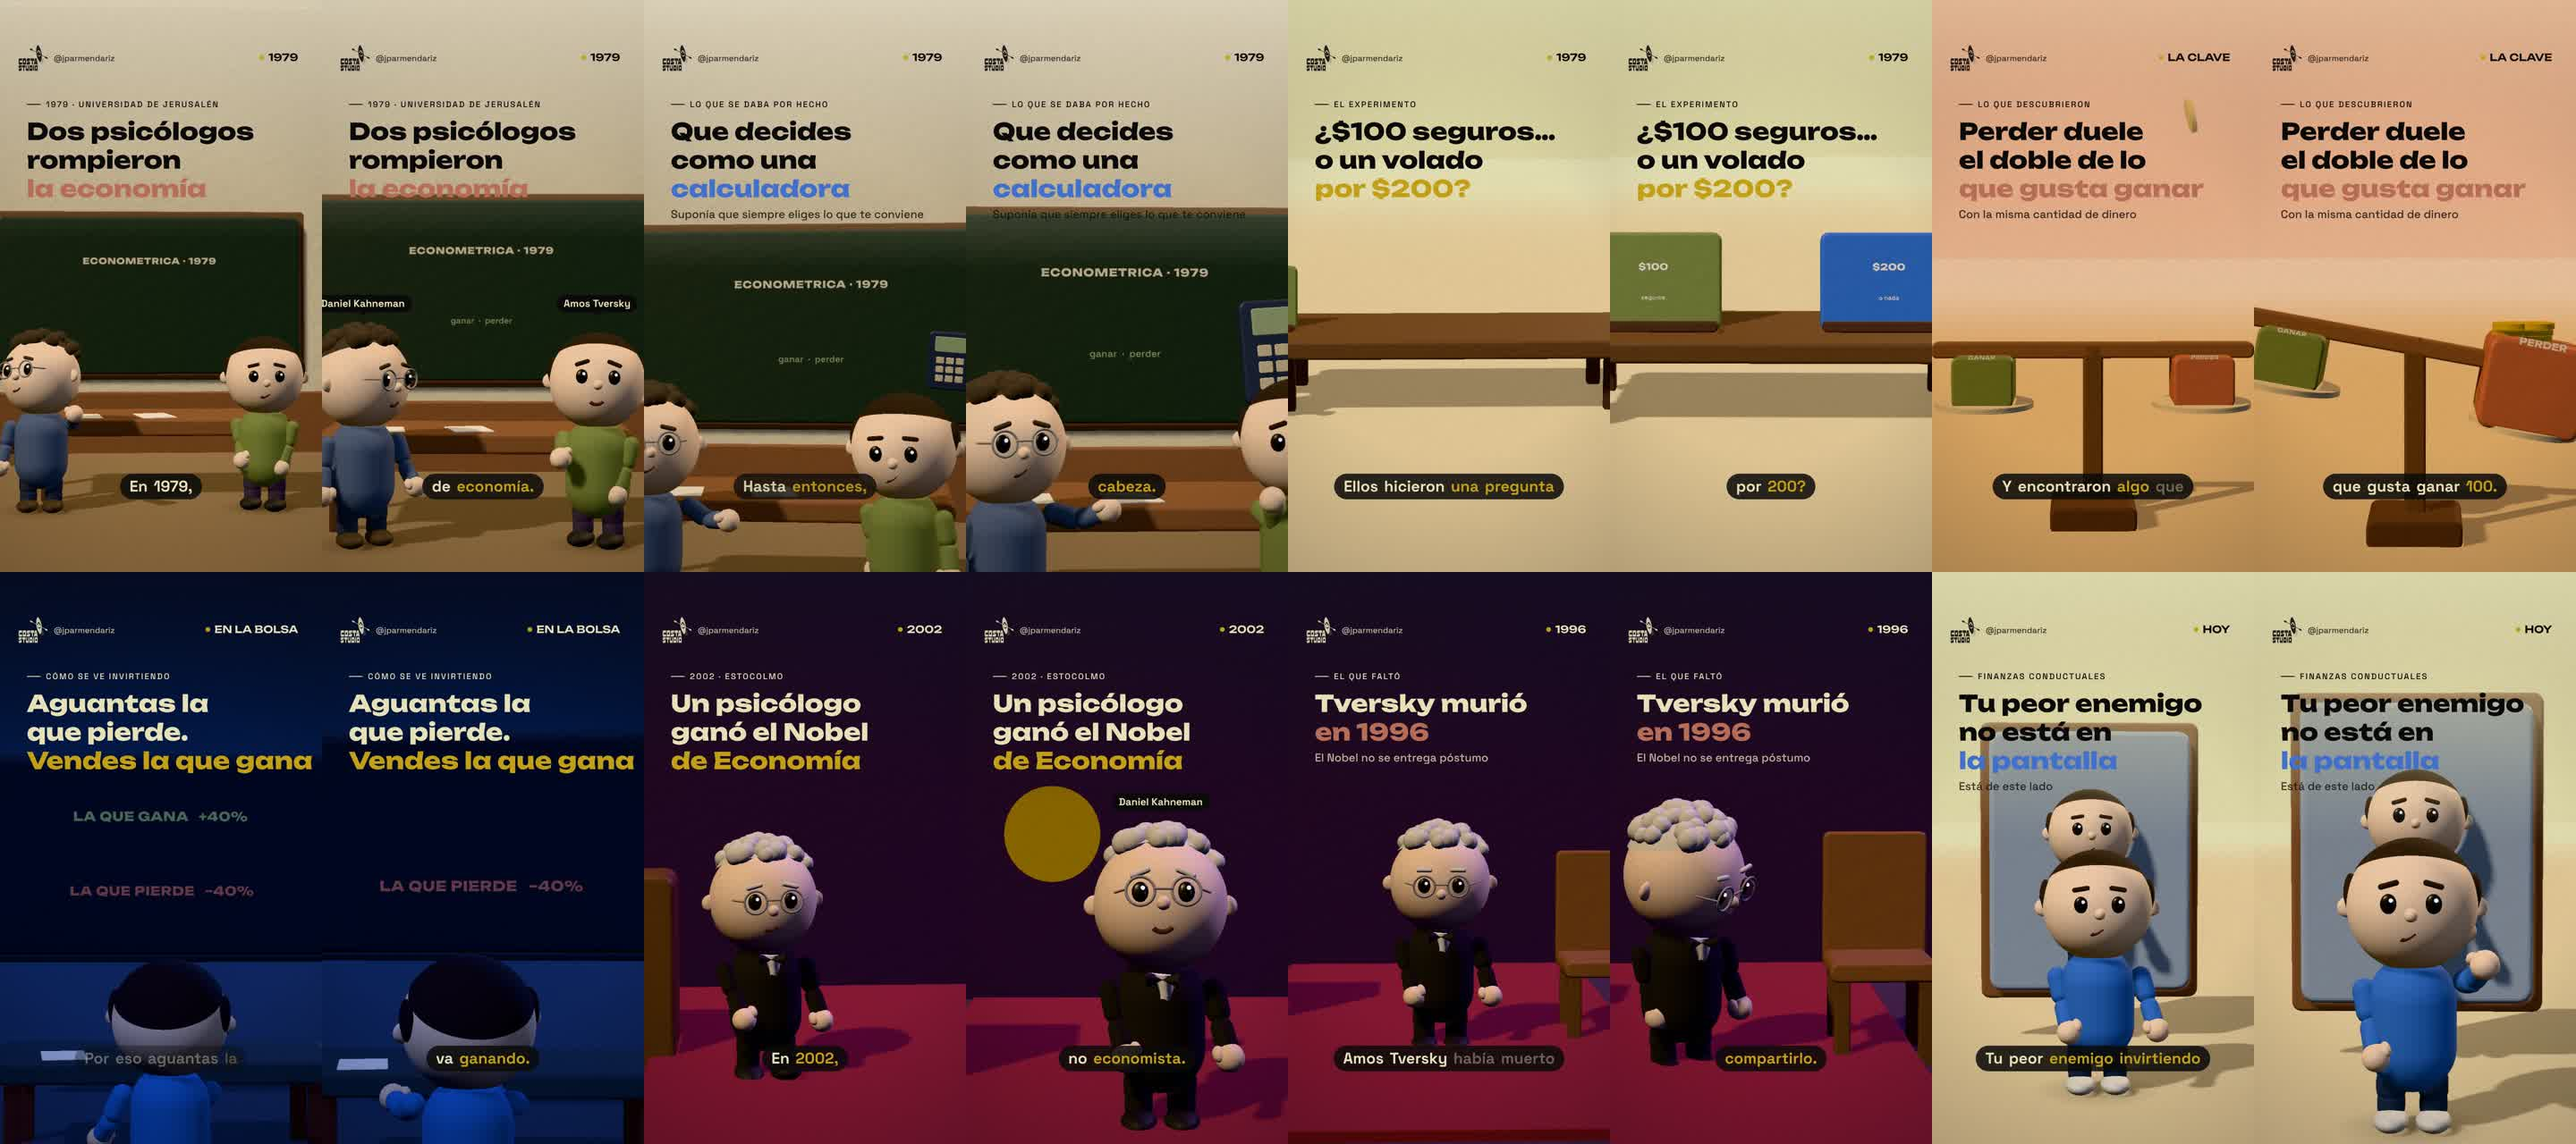
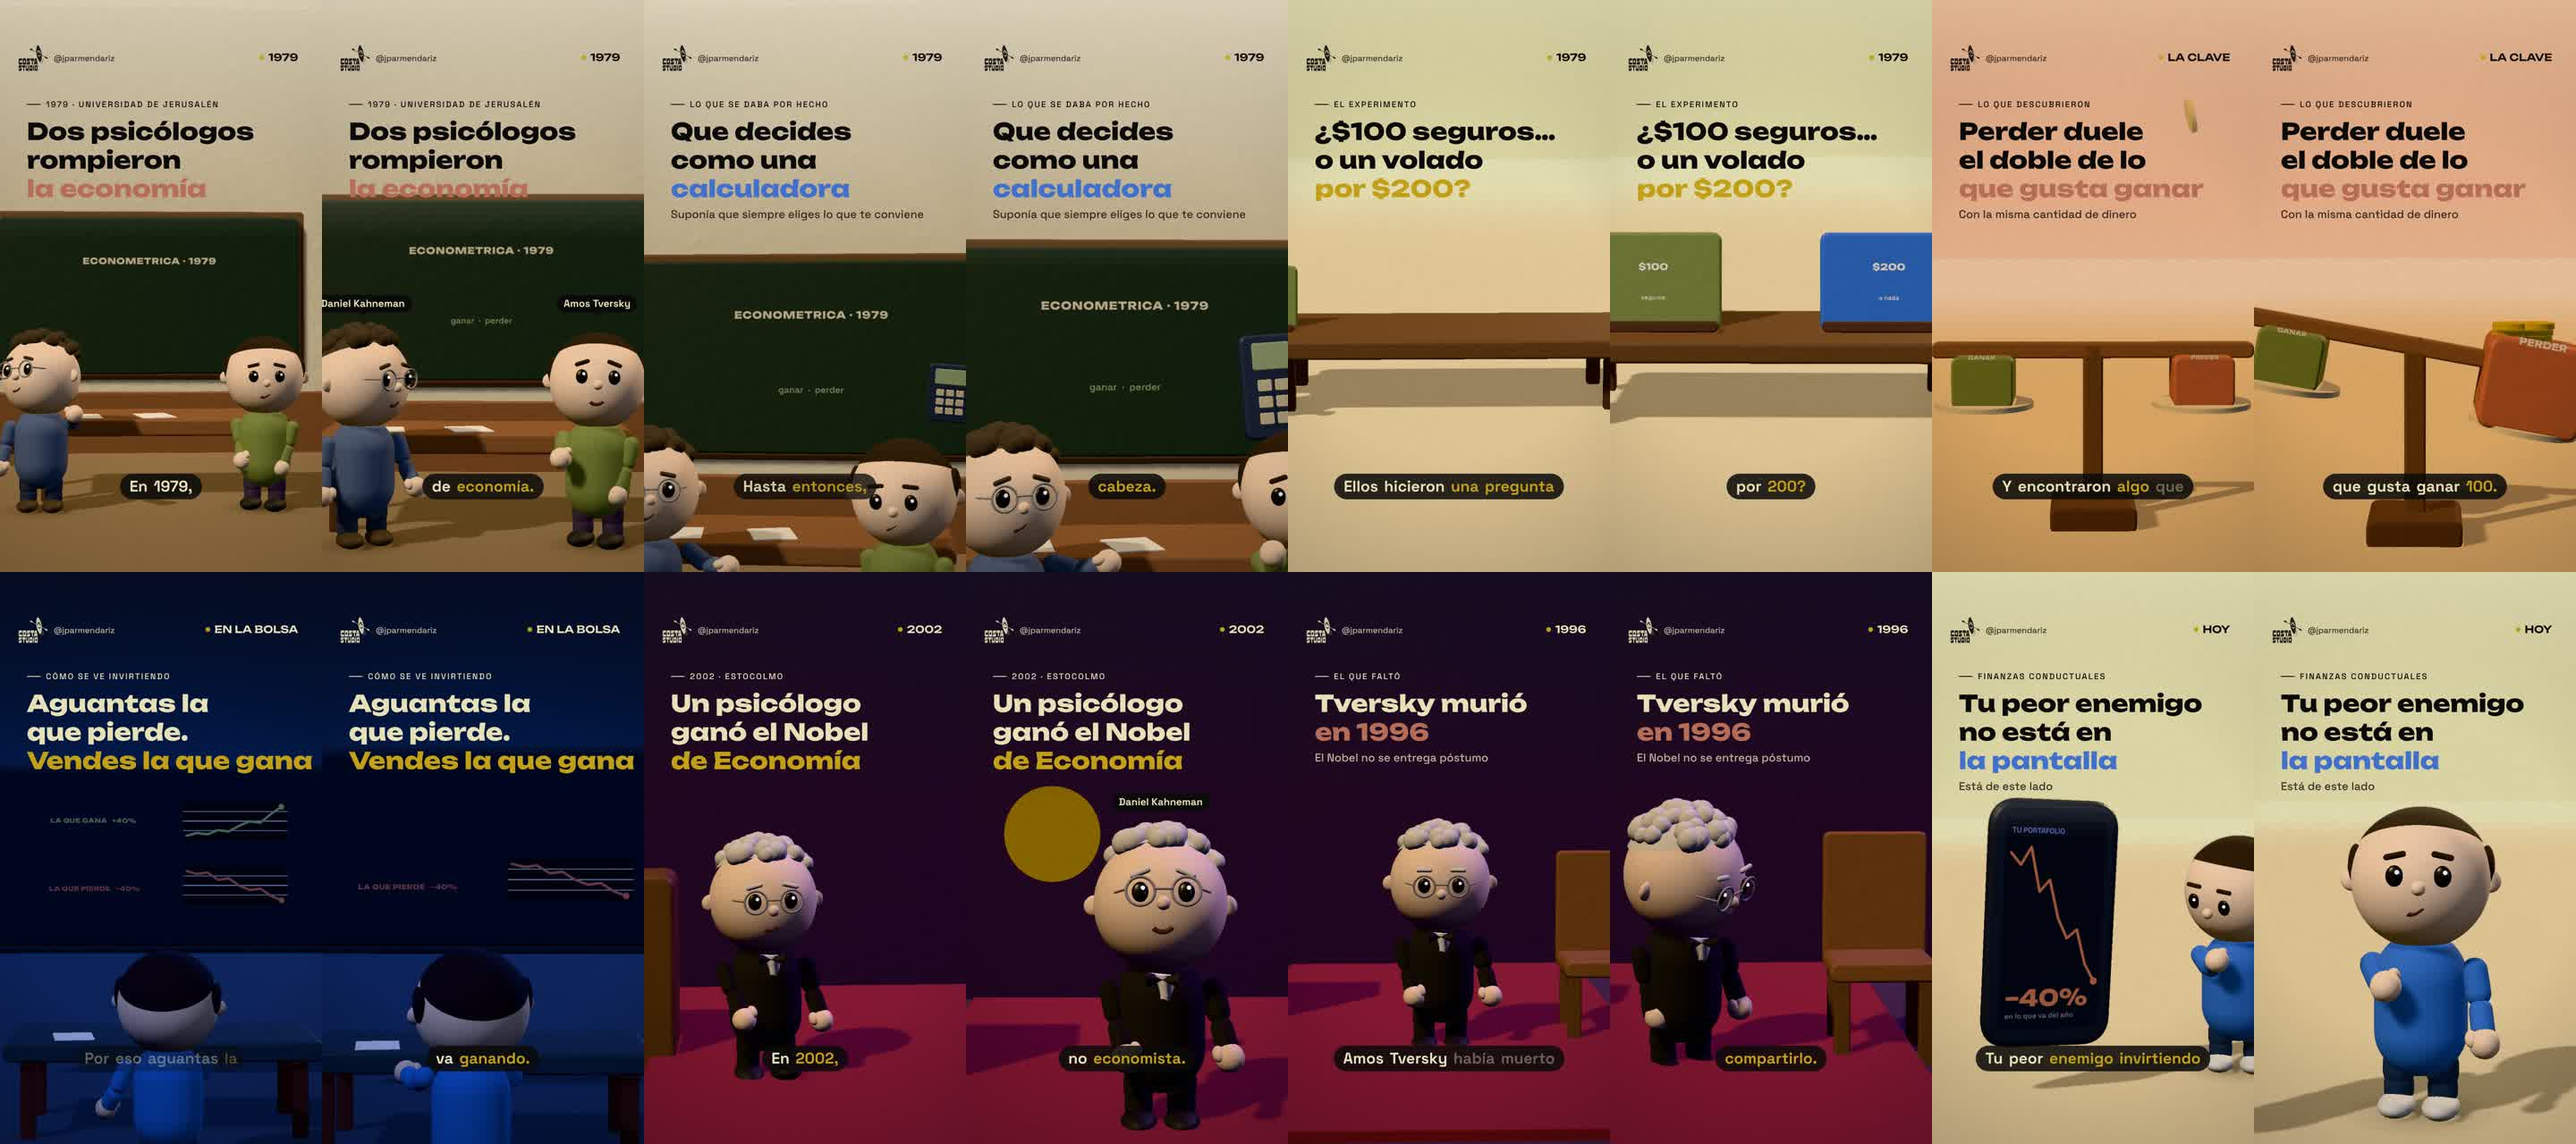
Historia de Kahneman: gráficas en la bolsa, teléfono en el cierre, rótulo legible
- Escena 2: el subtítulo caía justo en el borde del pizarrón y quedaba negro sobre
  verde oscuro. La cámara ahora apunta más arriba, así que cae sobre la pared clara.
- Escena 5: se agregan gráficas de línea de verdad (helper `grafica`, dibujadas con
  L.plaque). La verde sube, la roja baja, se trazan de izquierda a derecha y la
  ganadora se va volando con su gráfica.
- Escena 8: fuera el espejo y el reflejo, que se leían como una segunda persona
  detrás. Entra un teléfono con el portafolio (gráfica roja, −40%) y la cámara pasa
  del teléfono a la cara del personaje.

Claude-Session: https://claude.ai/code/session_01FvjQ3qKsfHX4rzw8jtw3Rk

diff --git a/finance-videos/videos/2026-11-21-KAHNEMAN-historia/story.js b/finance-videos/videos/2026-11-21-KAHNEMAN-historia/story.js
@@ -22,6 +22,22 @@ function desk(L, w, x, z, col) {
   return top;
 }
 
+// gráfica de línea dibujada sobre una textura; va dentro de un grupo anclado a la IZQUIERDA
+// para poder revelarla escalando en x (se ve como si la línea se fuera trazando)
+const grafica = (L, w, h, pts, col, bg) => {
+  const pl = L.plaque(w, h, (g, W2, H2) => {
+    if (bg) { g.fillStyle = bg; g.fillRect(0, 0, W2, H2); }
+    g.strokeStyle = 'rgba(255,255,255,.09)'; g.lineWidth = 2;
+    for (let i = 1; i < 4; i++) { g.beginPath(); g.moveTo(0, H2 * i / 4); g.lineTo(W2, H2 * i / 4); g.stroke(); }
+    const mn = Math.min(...pts), mx = Math.max(...pts), r = (mx - mn) || 1;
+    const X = i => 16 + i * (W2 - 46) / (pts.length - 1), Y = v => H2 - 20 - ((v - mn) / r) * (H2 - 42);
+    g.strokeStyle = col; g.lineWidth = Math.max(6, H2 * .055); g.lineJoin = 'round'; g.lineCap = 'round';
+    g.beginPath(); pts.forEach((v, i) => i ? g.lineTo(X(i), Y(v)) : g.moveTo(X(i), Y(v))); g.stroke();
+    g.fillStyle = col; g.beginPath(); g.arc(X(pts.length - 1), Y(pts[pts.length - 1]), Math.max(8, H2 * .075), 0, 7); g.fill();
+  }, 512);
+  const grp = new L.THREE.Group(); pl.position.x = w / 2; grp.add(pl); return grp;
+};
+
 const worlds = {
   // 1 y 2 · 1979: el despacho de la universidad
   estudio(L) {
@@ -106,13 +122,18 @@ const worlds = {
     w.vig = .5;
     const esc = rbox(7.0, 2.9, .3, .12, clay2('#141A2E', .35, .4)); esc.position.set(0, 4.0, -4.4); w.scene.add(esc);
     const marco = rbox(7.3, 3.2, .18, .08, clay2('#2E3448', .6)); marco.position.set(0, 4.0, -4.52); w.scene.add(marco);
-    const fila = (y, txt, col) => { const t = L.label3d(txt, 3.8, .36, { bg: null, ink: col, font: '800 54px Unbounded', ls: 1, pw: 1024 });
+    const fila = (y, txt, col) => { const t = L.label3d(txt, 2.5, .3, { bg: null, ink: col, font: '800 44px Unbounded', ls: 1, pw: 1024 });
       t.position.set(0, y, -4.22); w.scene.add(t); return t; };
     const verde = fila(4.62, 'LA QUE GANA   +40%', '#BBD08A');
     const roja = fila(3.52, 'LA QUE PIERDE   −40%', '#E09277');
+    verde.position.x = -1.15; roja.position.x = -1.15;                   // etiqueta a la izquierda, gráfica a la derecha
+    const gv = grafica(L, 1.95, .66, [9, 11, 10, 13, 12, 16, 19, 18, 24, 29], '#BBD08A');
+    gv.position.set(.38, 4.62, -4.2); w.scene.add(gv);
+    const gr = grafica(L, 1.95, .66, [29, 27, 28, 23, 24, 19, 16, 17, 12, 9], '#E09277');
+    gr.position.set(.38, 3.52, -4.2); w.scene.add(gr);
     desk(L, w, 0, -1.8, '#3A3F4A');
     const inv = L.actor(INVER); inv.position.set(0, 0, 1.1); inv.rotation.y = Math.PI; w.scene.add(inv);
-    return { ...w, verde, roja, inv, esc };
+    return { ...w, verde, roja, inv, esc, gv, gr };
   },
 
   // 6 y 7 · 2002: el Nobel
@@ -137,14 +158,29 @@ const worlds = {
 
   // 8 · cierre
   cierre(L) {
-    const { clay2, rbox } = L;
+    const { THREE, clay2, rbox } = L;
     const w = L.cineWorld({ bg: '#EBE6BA', bg2: '#D8CE98', floor: '#CFC4A6', fog: [45, 120], hemi: .6, key: 3.0, keyPos: [-10, 13, 10], rim: 2.3, fill: .45 });
-    const esp = rbox(2.6, 3.4, .22, .12, clay2('#9FB0C8', .3, .45)); esp.position.set(0, 2.5, -3.2); w.scene.add(esp);
-    const mrc = rbox(2.9, 3.7, .12, .08, clay2('#8A5F45', .7)); mrc.position.set(0, 2.5, -3.32); w.scene.add(mrc);
-    const inv = L.actor(INVER); inv.position.set(0, 0, -.6); w.scene.add(inv);
-    // el reflejo: el mismo personaje dentro del espejo, de frente
-    const refl = L.actor(INVER); refl.position.set(0, .95, -3.0); refl.scale.setScalar(.92); w.scene.add(refl);
-    return { ...w, inv, esp, refl };
+    const inv = L.actor(INVER); inv.position.set(1.15, 0, -1.2); inv.rotation.y = -.26; w.scene.add(inv);
+    // el teléfono con el portafolio: lo que mira el inversionista
+    const tel = new THREE.Group(); tel.position.set(-1.05, 1.85, -.2); tel.rotation.set(.04, .3, -.05); w.scene.add(tel);
+    const cuerpo = rbox(1.12, 2.2, .16, .2, clay2('#2A2E38', .5)); tel.add(cuerpo);
+    const pant = L.plaque(.99, 1.98, (g, W2, H2) => {
+      g.fillStyle = '#0E1424'; g.fillRect(0, 0, W2, H2);
+      g.fillStyle = '#8FA8FF'; g.font = '700 30px \"Space Grotesk\"'; g.textAlign = 'left';
+      g.fillText('TU PORTAFOLIO', 26, 54);
+      const pts = [62, 58, 64, 49, 53, 40, 33, 36, 24, 18], x0 = 26, x1 = W2 - 26, y0 = 110, y1 = H2 - 190;
+      g.strokeStyle = 'rgba(255,255,255,.08)'; g.lineWidth = 2;
+      for (let i = 0; i <= 3; i++) { const y = y0 + (y1 - y0) * i / 3; g.beginPath(); g.moveTo(x0, y); g.lineTo(x1, y); g.stroke(); }
+      const mn = Math.min(...pts), mx = Math.max(...pts);
+      const X = i => x0 + i * (x1 - x0) / (pts.length - 1), Y = v => y1 - ((v - mn) / (mx - mn)) * (y1 - y0);
+      g.strokeStyle = '#E09277'; g.lineWidth = 11; g.lineJoin = 'round'; g.lineCap = 'round';
+      g.beginPath(); pts.forEach((v, i) => i ? g.lineTo(X(i), Y(v)) : g.moveTo(X(i), Y(v))); g.stroke();
+      g.fillStyle = '#E09277'; g.beginPath(); g.arc(X(pts.length - 1), Y(pts[pts.length - 1]), 15, 0, 7); g.fill();
+      g.font = '800 92px Unbounded'; g.fillText('−40%', 26, H2 - 92);
+      g.fillStyle = '#9AA3B8'; g.font = '600 30px \"Space Grotesk\"'; g.fillText('en lo que va del año', 26, H2 - 44);
+    }, 420);
+    pant.position.z = .09; tel.add(pant);
+    return { ...w, inv, tel };
   },
 };
 
@@ -197,7 +233,7 @@ const scenes = [
         head: [-.08, -.3 + cp * .16, 0], lid: Math.max(.1, L.blink(q, 3)), brow: .1 + cp * .4, smile: .2, talk: talk * .7 });
       L.pose(w.tve, { armL: [1.0 * enc, -.55 * enc - .2, 1.15 * enc + .3], armR: [1.0 * enc, .55 * enc + .2, 1.15 * enc + .3],
         head: [.08 - enc * .06, .2, 0], lid: Math.max(.2, L.blink(q, 6)), brow: -.1 + enc * .7, smile: .1, bob: enc * .05 });
-      cam(w, mixv([1.6, 3.6, 13.0], [-.6, 3.3, 11.4], L.eio(p)), mixv([0, 4.2, -5], [0, 4.0, -5.5], L.eio(p)));
+      cam(w, mixv([1.6, 4.1, 13.0], [-.6, 3.8, 11.4], L.eio(p)), mixv([0, 4.75, -5], [0, 4.55, -5.5], L.eio(p)));
       w.focusOn(cp > .4 ? w.calc : w.bo, 1.0); w.aperture = .0002;
     },
     overlay(lt, t, L) {
@@ -256,13 +292,17 @@ const scenes = [
     update(w, lt, t, L) {
       const p = P(lt, this), q = L.on2(t);
       const agarra = L.eio(L.seg(p, .14, .46)), vende = L.eio(L.seg(p, .5, .84));
-      w.roja.position.set(Math.sin(t * 11) * .04 * agarra, 3.52 - agarra * .12, -4.22);
-      w.verde.position.set(L.lerp(0, 6.2, vende), 4.62 + vende * .5, -4.22);         // la que gana se va
-      w.verde.scale.setScalar(Math.max(.04, 1 - vende * .75));
+      const traza = L.eio(L.seg(p, .04, .4));                                      // la línea se va trazando
+      w.gr.scale.set(Math.max(.001, traza), 1, 1);
+      w.roja.position.set(-1.15 + Math.sin(t * 11) * .04 * agarra, 3.52 - agarra * .12, -4.22);
+      const fuera = L.lerp(0, 7.8, vende), chico = Math.max(.04, 1 - vende * .75);   // la que gana se va, con su gráfica
+      w.verde.position.set(-1.15 + fuera, 4.62 + vende * .5, -4.22); w.verde.scale.setScalar(chico);
+      w.gv.position.set(.38 + fuera, 4.62 + vende * .5, -4.2);
+      w.gv.scale.set(Math.max(.001, traza) * chico, chico, chico);
       L.pose(w.inv, { armL: [1.3 * agarra + .15, -.45, .5], armR: [1.05 * vende + .2, .42, .5],
         head: [-.18 - vende * .08, L.lerp(-.24, .34, vende), 0], lean: agarra * .06,
         lid: Math.max(.25, L.blink(q, 3)), brow: -.6, smile: -.45 });
-      cam(w, mixv([-.4, 3.5, 12.6], [.4, 3.3, 10.8], L.eio(p)), mixv([0, 4.0, -4], [0, 3.8, -4], L.eio(p)));
+      cam(w, mixv([-.4, 3.6, 14.2], [.4, 3.4, 12.4], L.eio(p)), mixv([0, 4.0, -4], [0, 3.85, -4], L.eio(p)));
       w.focusOn(w.esc, 1.0); w.aperture = .00022;
     },
     overlay(lt, t, L) {
@@ -312,12 +352,16 @@ const scenes = [
     cap: 'Tu peor enemigo invirtiendo no está en la pantalla. Está de este lado.',
     update(w, lt, t, L) {
       const p = P(lt, this), q = L.on2(t);
-      const sube = L.eio(L.seg(p, .38, .7));
-      const base = { head: [-.05, 0, 0], lid: Math.max(.15, L.blink(q, 3)), brow: .1 + sube * .3, smile: .25 };
-      L.pose(w.inv, { ...base, armR: [1.45 * sube + .3, .25, .35], armL: [.3, -.2, .3] });
-      L.pose(w.refl, { ...base, armL: [1.45 * sube + .3, -.25, .35], armR: [.3, .2, .3] });   // el espejo invierte el lado
-      cam(w, mixv([-.5, 3.2, 11.5], [.2, 3.0, 9.4], L.eio(p)), mixv([0, 2.6, -2], [0, 2.5, -2], L.eio(p)));
-      w.focusOn(sube > .4 ? w.refl : w.inv, 1.0); w.aperture = .00022;
+      const entra = L.back(L.seg(p, .04, .34)), voltea = L.eio(L.seg(p, .52, .82));
+      w.tel.scale.setScalar(Math.max(.001, entra));
+      w.tel.position.set(-1.05, 1.85 + Math.sin(t * 1.3) * .04, -.2);
+      w.tel.rotation.y = .3 - voltea * .12;
+      L.pose(w.inv, { armL: [1.05 - voltea * .25, -.5, .95], armR: [.28, .2, .3],   // sostiene el teléfono y luego alza la vista
+        head: [L.lerp(.26, -.06, voltea), L.lerp(-.5, .16, voltea), 0], lean: .04 - voltea * .04,
+        lid: Math.max(.15, L.blink(q, 3)), brow: L.lerp(-.35, .25, voltea), smile: L.lerp(-.3, .3, voltea) });
+      // la cámara abre con el teléfono y acaba en su cara: el enemigo no está en la pantalla
+      cam(w, mixv([-1.15, 3.1, 11.2], [.55, 2.9, 8.2], L.eio(p)), mixv([-.6, 2.5, -1.2], [1.1, 2.3, -1.2], L.eio(p)));
+      w.focusOn(voltea > .45 ? w.inv : w.tel, 1.0); w.aperture = .00022;
     },
     overlay(lt, t, L) {
       const ink = L.B.negro; L.scrim(L.C, 0, 895, .82, '235,230,186');
